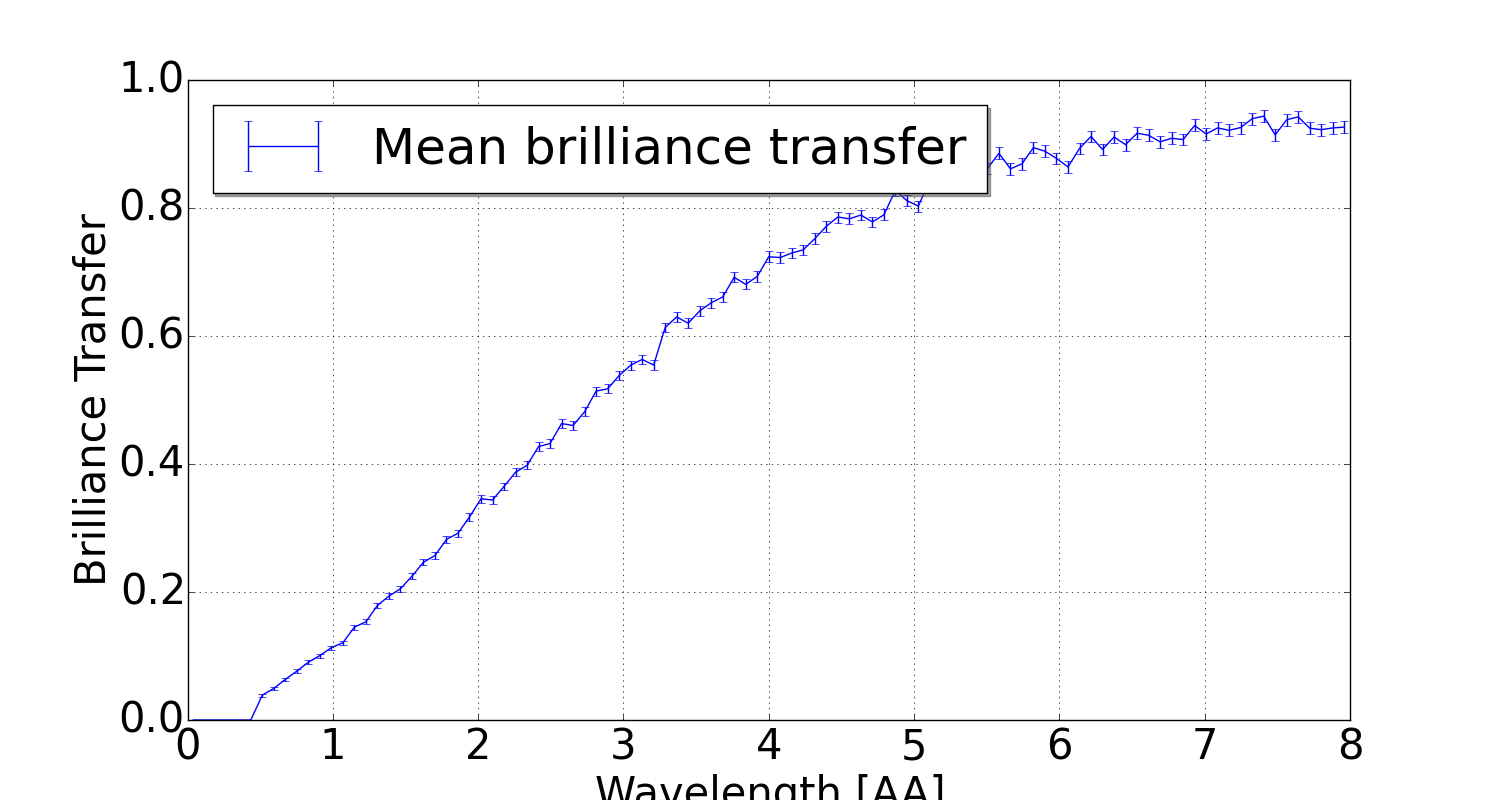
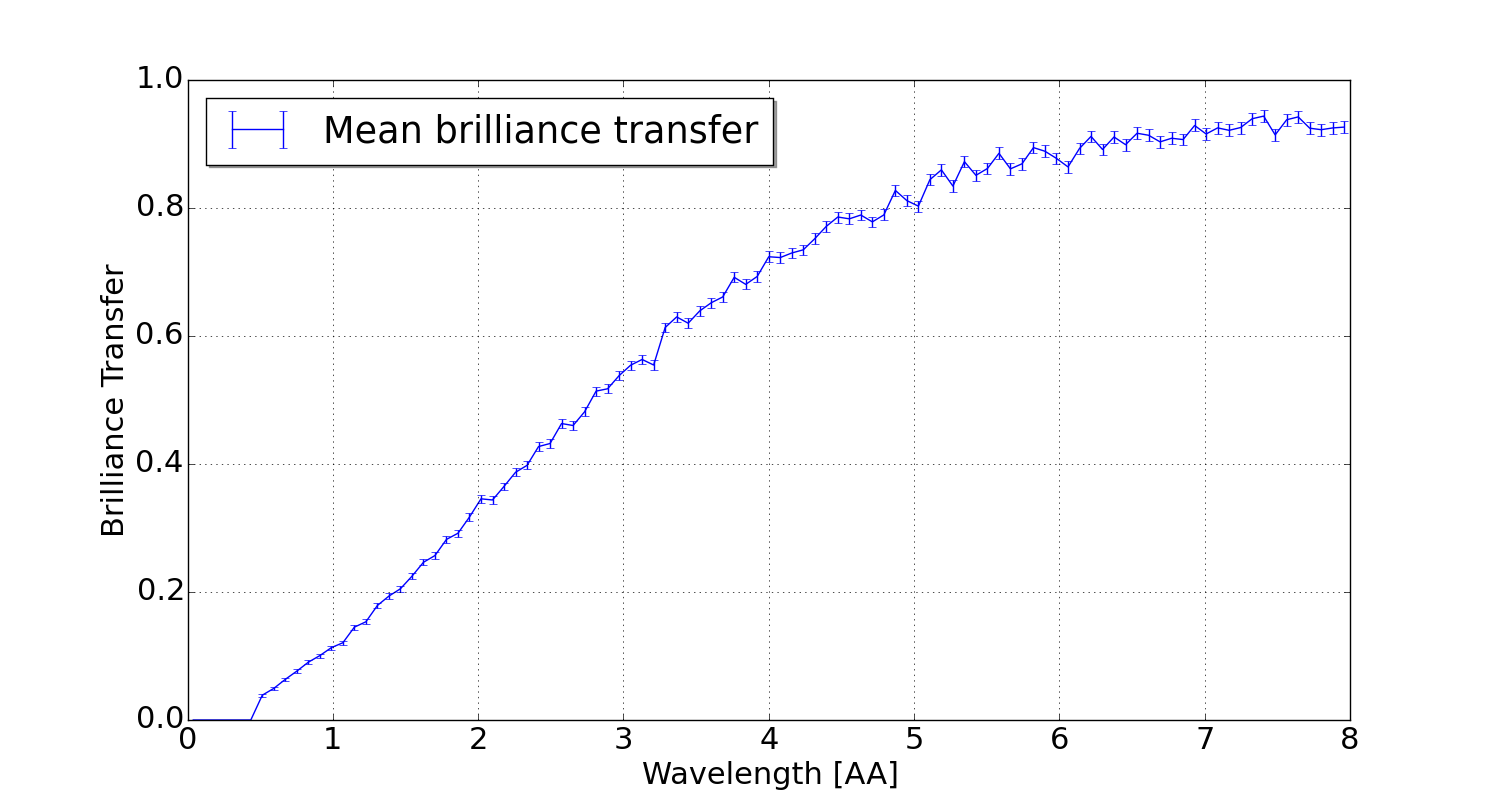
zfapksodfas

diff --git a/get_BT.py b/get_BT.py
@@ -9,7 +9,7 @@ import sys
 from mcstas_utils import run_mcstas, compile_mcstas, now
 from simulation_analysis_utils import process_brilliance
 
-matplotlib.rcParams.update({'font.size': 30})
+matplotlib.rcParams.update({'font.size': 22})
 
 #from parse_brill import run_mcstas
 
